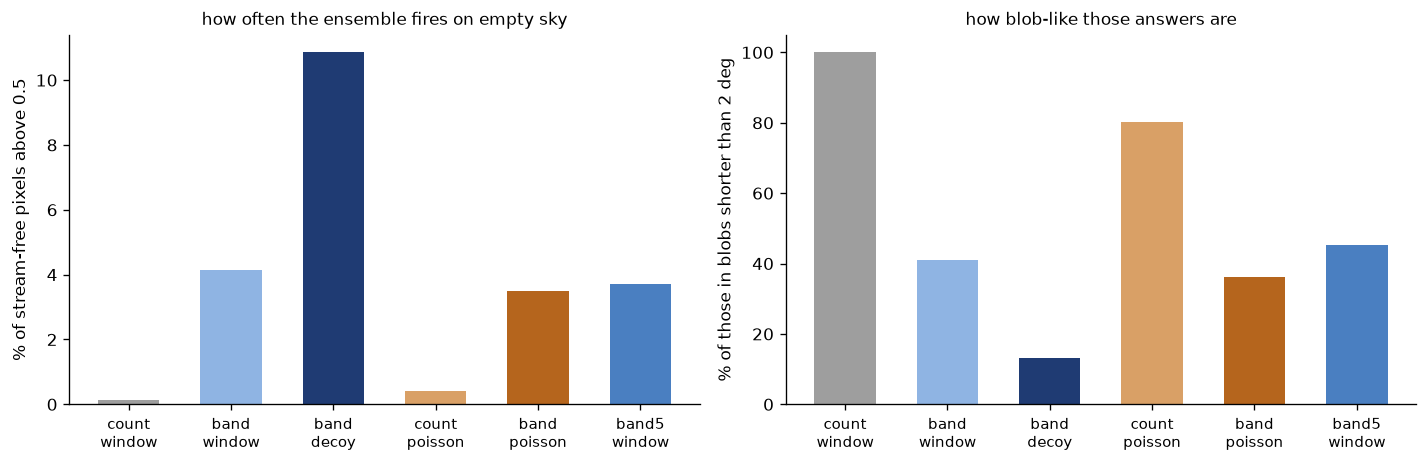
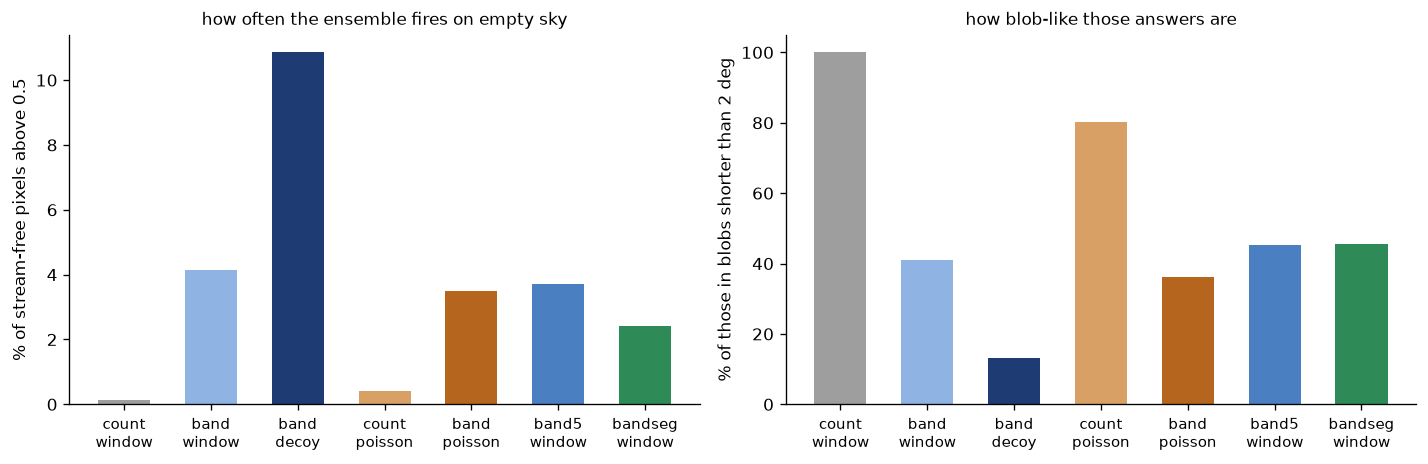
Real DES: segmented band label tried (round 2c)
The band cut into 1-degree segments, each labelled where the stream stands
out locally: elongated labels, half the band's false alarms, best at m-M 15,
but 73% of DES 2018 copies against 82% for the count label.

diff --git a/scripts/experiments/real_des/patches.py b/scripts/experiments/real_des/patches.py
@@ -69,6 +69,9 @@ CONFIGS = {
     "band/poisson": {"label": "band", "normalizer": "poisson"},
     # round 2b: the band label with a stricter visibility cut, S/N >= 5
     "band5/window": {"label": "band5", "normalizer": "window"},
+    # round 2c: the band cut into 1-degree segments along the track, each
+    # labelled only where the stream stands out locally (S/N >= 1)
+    "bandseg/window": {"label": "bandseg", "normalizer": "window"},
 }
 # Where models train and where they are scored. Round 1 trained on patch A and
 # was scored on patch B: one 600 deg2 patch proved too narrow a sky (the models
@@ -203,6 +206,13 @@ def build_sky(sky, label):
             "band_min_snr": 5.0,
             "band_min_length_deg": BAND_MIN_LENGTH_DEG,
         },
+        "bandseg": {
+            "label_policy": "stream_band",
+            "band_min_snr": BAND_MIN_SNR,
+            "band_min_length_deg": BAND_MIN_LENGTH_DEG,
+            "band_segment_deg": 1.0,
+            "band_segment_min_snr": 1.0,
+        },
     }
     injector = StreamInjector(
         background=background,
@@ -285,7 +295,7 @@ def train(config, seed, train_sky="A"):
     print(f"{stem.name}: trained in {time.time() - start:.0f}s", flush=True)
 
 
-def audit(n=300):
+def audit(n=300, labels=("count", "band")):
     """Label quality on the training patch: is the label one elongated band?"""
     import numpy as np
     from scipy import ndimage
@@ -301,7 +311,7 @@ def audit(n=300):
     rd = real_des()
     sp = rd.stream_parameters_module()
     rows = []
-    for label in ("count", "band"):
+    for label in labels:
         background, injector, pix = build_sky("A", label)
         config = StreamConfig(
             params=sp.training_parameters(rd.TRAINING_SET),
@@ -363,7 +373,12 @@ def audit(n=300):
             {"label": label, "invisible_draws": dataset.invisible_draws, "n": n}
         )
     OUT.mkdir(parents=True, exist_ok=True)
-    with open(OUT / "audit.pkl", "wb") as handle:
+    name = (
+        "audit.pkl"
+        if tuple(labels) == ("count", "band")
+        else f"audit_{'_'.join(labels)}.pkl"
+    )
+    with open(OUT / name, "wb") as handle:
         pickle.dump(rows, handle)
 
 
@@ -799,6 +814,7 @@ def figures(train_sky="A"):
         "count/poisson": "#d9a066",
         "band/poisson": "#b5651d",
         "band5/window": "#4a7fc1",
+        "bandseg/window": "#2e8b57",
     }
 
     fig, axes = plt.subplots(
@@ -901,6 +917,9 @@ if __name__ == "__main__":
     parser.add_argument("--seed", type=int, default=SEEDS[0])
     parser.add_argument("--n", type=int, default=300, help="audit: windows per label")
     parser.add_argument(
+        "--labels", nargs="+", default=["count", "band"], help="audit: labels"
+    )
+    parser.add_argument(
         "--train-sky",
         choices=list(EVALUATED_ON),
         default="fold0",
@@ -908,7 +927,7 @@ if __name__ == "__main__":
     )
     arguments = parser.parse_args()
     if arguments.step == "audit":
-        audit(arguments.n)
+        audit(arguments.n, tuple(arguments.labels))
     elif arguments.step == "train":
         train(arguments.config, arguments.seed, arguments.train_sky)
     elif arguments.step == "evaluate":

diff --git a/src/streamgoggles/injector.py b/src/streamgoggles/injector.py
@@ -380,6 +380,8 @@ class StreamInjector:
         min_stream_length_deg: float = 5.0,
         band_min_snr: float = 2.0,
         band_min_length_deg: float = 4.0,
+        band_segment_deg: float | None = None,
+        band_segment_min_snr: float = 1.0,
     ):
         """Initialize injector.
 
@@ -413,6 +415,13 @@ class StreamInjector:
                 stream's band must reach in a channel for that channel to be
                 labelled, and the length of band on valid sky the window must
                 hold.
+            band_segment_deg, band_segment_min_snr: Only used when
+                label_policy="stream_band": if a length is given, a labelled
+                channel's band is further cut into segments of that length
+                along the track, and only the segments where the stream
+                stands out locally (S / sqrt(B) >= band_segment_min_snr in the
+                segment) are labelled -- the band's shape, without the
+                stretches of track where the stream has no stars.
         """
         self.background = background
         self.matched_filters = matched_filters
@@ -435,6 +444,8 @@ class StreamInjector:
         self.min_stream_length_deg = min_stream_length_deg
         self.band_min_snr = band_min_snr
         self.band_min_length_deg = band_min_length_deg
+        self.band_segment_deg = band_segment_deg
+        self.band_segment_min_snr = band_segment_min_snr
         self.namespace = f"{survey}_{release}" if release else survey
         self._obs_injector = ObsStreamInjector(survey, release=release)
 
@@ -764,11 +775,21 @@ class StreamInjector:
             noise = float(np.sum((combined - stream)[band]))
             value = signal / np.sqrt(max(noise, 1.0))
             snr.append(value)
-            labels.append(
-                band.astype(float)
-                if value >= self.band_min_snr
-                else np.zeros(band.shape)
-            )
+            label = band.astype(float) if value >= self.band_min_snr else None
+            if label is not None and self.band_segment_deg:
+                label = np.zeros(band.shape)
+                segment = np.floor(
+                    phi1.reshape(np.shape(valid)) / self.band_segment_deg
+                )
+                background = combined - stream
+                for index in np.unique(segment[band]):
+                    here = band & (segment == index)
+                    local = float(np.sum(stream[here])) / np.sqrt(
+                        max(float(np.sum(background[here])), 1.0)
+                    )
+                    if local >= self.band_segment_min_snr:
+                        label[here] = 1.0
+            labels.append(label if label is not None else np.zeros(band.shape))
         distances = np.array([c["distance_modulus"] for c in channels_meta], float)
         nearest = distances[np.argmin(np.abs(distances - params["distance_modulus"]))]
         at_distance = np.isclose(distances, nearest)

diff --git a/tests/test_injector.py b/tests/test_injector.py
@@ -1424,3 +1424,24 @@ def test_band_label_needs_the_minimum_length_on_valid_sky(real_background, band_
         injector.inject_single_stream(
             {**band_params, "length": 50.0}, np.random.default_rng(3), max_placements=2
         )
+
+
+def test_band_segments_keep_only_where_the_stream_stands_out(
+    real_background, band_params
+):
+    """Cut into segments, the band label lies inside the plain band label; a
+    bright stream stands out in every segment and keeps its whole band, while
+    an impossible local cut labels nothing."""
+    plain = _band_injector(real_background)
+    cut = _band_injector(real_background, band_segment_deg=2.0)
+    impossible = _band_injector(
+        real_background, band_segment_deg=2.0, band_segment_min_snr=1e9
+    )
+    samples = [
+        injector.inject_single_stream(band_params, np.random.default_rng(3))
+        for injector in (plain, cut, impossible)
+    ]
+    whole, segmented, empty = (s.label_stack for s in samples)
+    assert np.all(segmented <= whole)
+    assert segmented.sum() > 0.9 * whole.sum()
+    assert empty.sum() == 0

diff --git a/docs/source/experiments/real_des/labels_normalization.md b/docs/source/experiments/real_des/labels_normalization.md
@@ -187,8 +187,11 @@ saturated.*
 
 ## Round 2: trained on fold 0, scored on fold 1
 
-The same configurations — plus the Poisson normalization, and in a round 2b
-the band label with a stricter visibility cut, S/N ≥ 5 — trained on all of
+The same configurations — plus the Poisson normalization; in a round 2b the
+band label with a stricter visibility cut, S/N ≥ 5; and in a round 2c the
+**segmented band**: the band cut into 1° segments along the track, each
+labelled only where the stream stands out locally (S/N ≥ 1 in the segment,
+`band_segment_deg`) — trained on all of
 fold 0's training sky and scored on fold 1's calibration sky. Now the
 false-alarm cuts of the count-label models are no longer saturated, and the
 comparison measures the models.
@@ -215,7 +218,8 @@ connected groups shorter than 2°.*
 |---|---|---|---|---|---|
 | **count / window** | **82%** (83, 81) | 12 / **100** / **100** / 100 / 100% | **0.1%** | 100% | 1 of 9 |
 | band / window | 79% (71, 79) | **25** / 62 / 88 / 100 / 100% | 4.1% | **41%** | 9 of 9 |
-| band5 / window (S/N ≥ 5) | 80% (72, 80) | **25** / 62 / 88 / 100 / 100% | 3.7% | 45% | 9 of 9 |
+| band5 / window (S/N ≥ 5) | 80% (72, 80) | 25 / 62 / 88 / 100 / 100% | 3.7% | 45% | 9 of 9 |
+| segmented band / window | 73% (78, 72) | **50** / 62 / 100 / 100 / 100% | 2.4% | 46% | 7 of 9 |
 | count / poisson | 68% (72, 67) | 0 / 38 / 100 / 100 / 100% | 0.4% | 80% | 2 of 9 |
 | band / poisson | 62% (46, 62) | 25 / 38 / 75 / 100 / 100% | 3.5% | 36% | 9 of 9 |
 | band / decoy | 31% (0, 24) | 25 / 12 / 62 / 38 / 12% | 11% | 13% | 9 of 9 |
@@ -226,14 +230,15 @@ as a stream can be.*
 
 **Stream by stream** (ensemble), the two labels are complementary:
 
-| | count / window | band5 / window |
-|---|---|---|
-| Jhelum (1.16° wide, m−M 15.6) | 12% | **88%** |
-| Wambelong (m−M 15.9) | 12% | 25% |
-| Phoenix (0.16° wide) | **88%** | 38% |
-| Aliqa Uma (0.26° wide) | **75%** | 38% |
-| Willka Yaku (0.21° wide) | **100%** | 75% |
-| ATLAS, Chenab, Elqui, Indus, Molonglo, Ravi, Tucana III, Turbio, Turranburra | same (88-100%) | same |
+| | count / window | band5 / window | segmented band / window |
+|---|---|---|---|
+| Jhelum (1.16° wide, m−M 15.6) | 12% | **88%** | 75% |
+| Wambelong (m−M 15.9) | 12% | 25% | 12% |
+| Phoenix (0.16° wide) | **88%** | 38% | 50% |
+| Aliqa Uma (0.26° wide) | **75%** | 38% | 25% |
+| Willka Yaku (0.21° wide) | **100%** | 75% | 50% |
+| Tucana III (0.18° wide) | **100%** | 100% | 50% |
+| ATLAS, Chenab, Elqui, Indus, Molonglo, Ravi, Turbio, Turranburra | same (88-100%) | same | same |
 
 ### What this says
 
@@ -257,15 +262,20 @@ as a stream can be.*
    and near streams (Jhelum 88% against 12%, m−M 15 25% against 12%), behind
    for narrow ones (Phoenix, Aliqa Uma, Willka Yaku). Neither solves the
    nearest distances.
-4. **Train on a wide sky.** One patch of 600 deg² does not transfer (round
+4. **Labelling only where the stream stands out locally does not rescue the
+   band.** The segmented band keeps its labels elongated (1% with a largest
+   piece under 2°, one piece at the median) and halves the band's false
+   alarms (2.4% of empty sky), and it is the best at m−M 15 (50%) — but it
+   is the worst of the three overall (73%), losing the narrow streams
+   (Tucana III, Willka Yaku, Aliqa Uma), whose short segments rarely reach
+   S/N 1 on their own.
+5. **Train on a wide sky.** One patch of 600 deg² does not transfer (round
    1); fold 0 does, at the same cost.
 
 ### What to try next
 
-- **A label between the two**: the band's shape, narrowed to where the
-  stream's stars are (e.g. the band intersected with the count label dilated
-  along the track, or a band of half a width), to keep the elongation without
-  labelling empty stretches.
+- ~~A label between the two~~: tried as the segmented band (round 2c); it
+  keeps the elongation and fewer false alarms, but loses the narrow streams.
 - **Longer training** (the 19200-window tier) for the two labels, since the
   quick tier's seed spread is up to 8 points here.
 - **Both models together**: count-label models for narrow streams and
